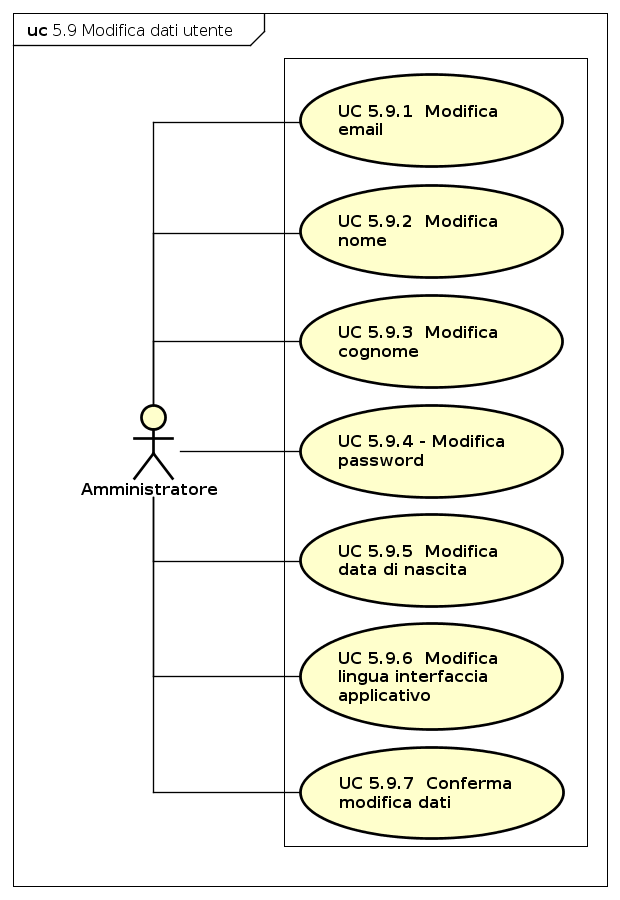
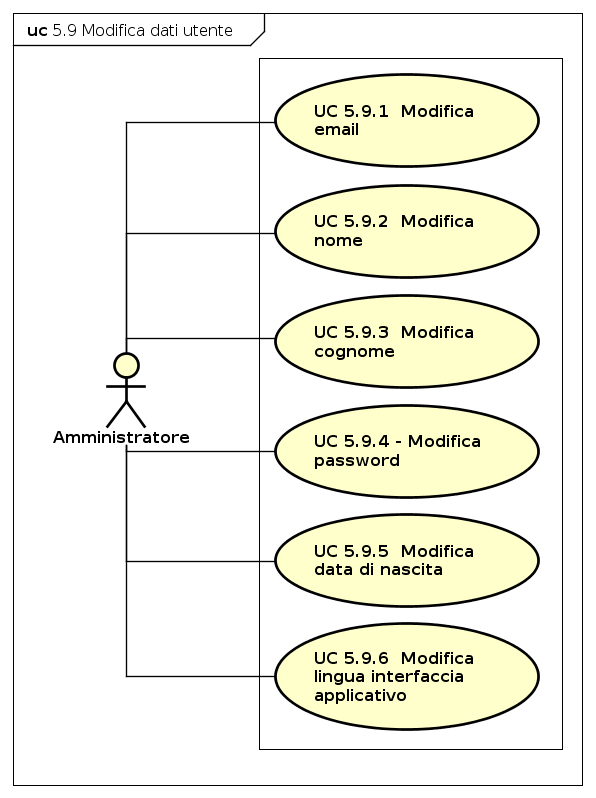
Corretto amministratore

Changed region(s): [[0.0, 0.0, 0.9966, 0.9925]]

diff --git a/RP/Analisi_dei_requisiti/sez/amministratore.tex b/RP/Analisi_dei_requisiti/sez/amministratore.tex
@@ -236,15 +236,15 @@
 		\item Selezione da un elenco predefinito la lingua dell'applicativo desiderata.
 	\end{enumerate}
 \end{itemize}
-
-\subsubsection{UC 5.9.7 - Conferma modifica dati}
-\begin{itemize}
-	\item[•]\textbf{Attori}: Amministratore;
-	\item[•]\textbf{Descrizione}: l'amministratore conferma la modifica dei dati inseriti;
-	\item[•]\textbf{Precondizione}: l'amministratore ha modificato i propri dati;
-	\item[•]\textbf{Postcondizione}: l'amministratore conferma la modifica e i dati vengono registrati nel sistema; 
-	\item[•]\textbf{Flusso degli eventi}: l'amministratore seleziona l'opzione di conferma di modifica dati.
-\end{itemize}
+%
+%\subsubsection{UC 5.9.7 - Conferma modifica dati}
+%\begin{itemize}
+%	\item[•]\textbf{Attori}: Amministratore;
+%	\item[•]\textbf{Descrizione}: l'amministratore conferma la modifica dei dati inseriti;
+%	\item[•]\textbf{Precondizione}: l'amministratore ha modificato i propri dati;
+%	\item[•]\textbf{Postcondizione}: l'amministratore conferma la modifica e i dati vengono registrati nel sistema; 
+%	\item[•]\textbf{Flusso degli eventi}: l'amministratore seleziona l'opzione di conferma di modifica dati.
+%\end{itemize}
 
 \subsubsection{UC 5.10 - Logout}
 \begin{itemize}
